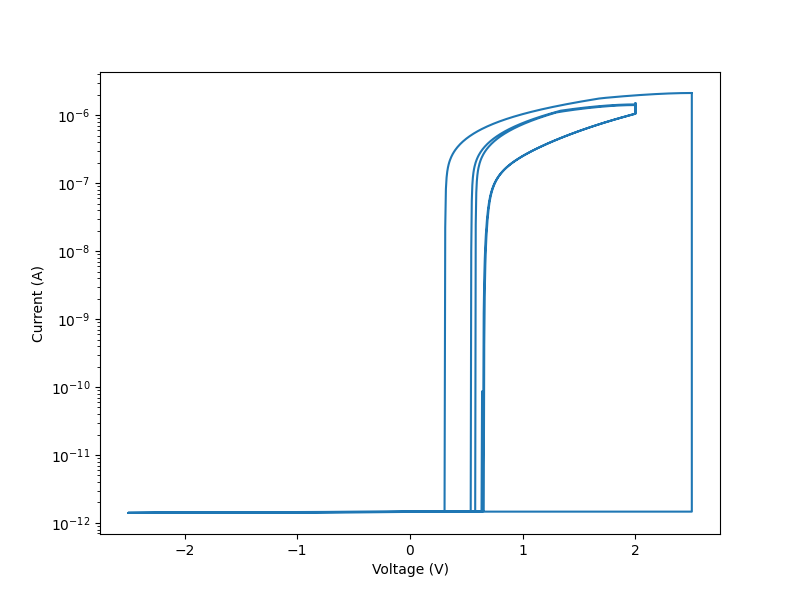
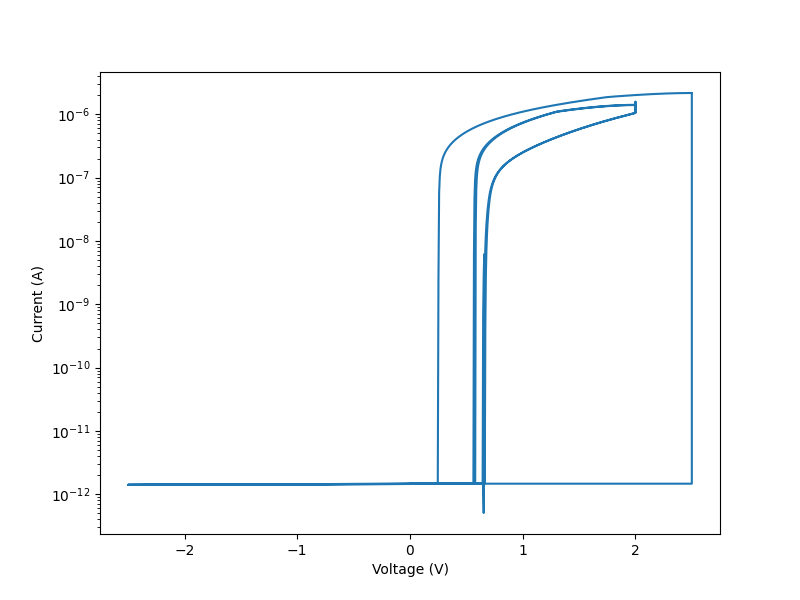
test, added grid to CV plot

diff --git a/Dynamic_Memory_Modeling.py b/Dynamic_Memory_Modeling.py
@@ -6,7 +6,7 @@ import scipy
 import scipy.signal
 from waveforms import waveformGenerator
 
-path = "./plots/threshold_voltage/0.8V/"
+path = "./plots/test/"  
 
 e_charge = scipy.constants.e    #C
 k_B = scipy.constants.k  # J/K
@@ -25,7 +25,7 @@ epsilon_Si = epsilon_0*11.9            # Permittivity of silicon in As/Vm
 
 # MOSFET
 L = 1e-6 # Gate length in m
-W = 1e-6 # Gate width in m
+W = 2e-6 # Gate width in m
 EOT = 1e-9 # Oxide thickness in m
 V_FB = -0.3 # flat band voltage in V
 VDS = 0.05 # drain-source voltage in V
@@ -36,8 +36,7 @@ p_p0 = ( (N_A-N_D)+ np.sqrt((N_A-N_D)**2 + 4*n_i**2) )/2 # Equilibrium hole conc
 n_p0 = n_i**2/p_p0 # Equilibrium electron concentration in m^-3
 L_D = np.sqrt(epsilon_Si/(e_charge * p_p0 * beta_e)) # % Extrinsic Debye-length for holes in m
 C_ox = 3.9*epsilon_0/EOT # Gate oxide capacitance per area in F/m^2
-#V_TH = V_FB + 2*Psi_B + np.sqrt(2*epsilon_Si* e_charge * N_A *2*Psi_B)/(C_ox) # threshold voltage in V
-V_TH = 0.8
+V_TH = V_FB + 2*Psi_B + np.sqrt(2*epsilon_Si* e_charge * N_A *2*Psi_B)/(C_ox) # threshold voltage in V
 
 def F_func(Psi_S, V_ds = VDS):
     return np.sqrt((np.exp(-beta_e *Psi_S)+ beta_e*Psi_S -1) + n_p0/p_p0*np.exp(-beta_e *V_ds) *
@@ -72,13 +71,14 @@ def Drain_current(V_GS_list, V_DS_list):
 
 #Ferroelectric Layer and Grain Parameters
 
-A_FE = (5e-6)*(0.75e-6)    # m^2
+#A_FE = (5e-6)*(0.75e-6)    # m^2
+A_FE = (5e-6) * (1e-6 - 100e-9)
 d_FE = 4.5e-9   # m
 P_r = 2.5 * 1e-2 # remanent polarization C/m^2
 E_c = 0.9 * 1e6 / 1e-2    # coercive field V/m
 
 def FE_leak(V):
-    i_FE0 = 1.8e3 # MFM leakage current density at VF = 0V in A/m2
+    i_FE0 = 1.8e3 # MFM leakage current density at VF = 0V in A/m2\
     V_FE0 = 0.5 # MFM leakage normalization voltage in V
     return i_FE0* np.sign(V) * np.exp(np.abs(V)/ V_FE0 ) 
 
@@ -100,16 +100,16 @@ t_rise = 0.1
 t_write = 1 
 t_delay = 1
 t_read = 3
-V_write = 2
-V_read = 2
+V_write = 1.6
+V_read = 2.4
 V_hold = 0.0
 Waveform_time = 1e-6 * np.cumsum([0, 1, t_rise, t_write, t_rise, t_delay])
 Waveform_voltage = np.array([0, 0, V_write, V_write, V_hold, V_hold])
 dt = max(Waveform_time) / Sim_steps
 # Sim_time = np.linspace(0, max(Waveform_time), Sim_steps)
-print(dt)
+#print(dt)
 # V_input = np.interp(x = Sim_time, xp = Waveform_time, fp= Waveform_voltage)
-V_input, V_DS, t_total = gen.pulses_constantVd(Sim_steps, VDS, 2.5, 1e-6, 2, 3e-6, 2e-6)
+V_input, V_DS, t_total, dT = gen.pulses_constantVd(Sim_steps, VDS, V_write, 1e-6, V_read, 3e-6, 2e-6)
 Sim_time = np.linspace(0, t_total, Sim_steps)
 # dt = t_total / Sim_steps
 # print(dt)
@@ -126,6 +126,10 @@ V_GS = np.zeros(Sim_steps)
 Psi_Si_list = np.linspace(-0.4,1.7,500)
 Q_MOS_list = Func_Q_MOS(Psi_S=Psi_Si_list)
 V_MOS_list = Psi_Si_list + Q_MOS_list/C_ox + V_FB
+Cp = 0e-12                     #Parasitic capacitance in F
+Qp = (Psi_Si_list+Q_MOS_list/C_ox)*Cp                    # Parasitic charge parallel to Gate capacitance in C
+Qps = Qp/A_MOS + Q_MOS_list                    # Sum of parasitic and Gate charge in C
+
 
 I = np.zeros(Sim_steps)
 I_Leak = np.zeros(Sim_steps)
@@ -144,7 +148,7 @@ Q_0 = np.sqrt(-alpha/beta/2) # charge on every domain interface
 P_sign = -1
 Q_FE[0, :] = Q_0 * P_sign
 Q_FE_tot[0] = np.sum(Q_FE[0, :])
-Q_MOS[0] = np.interp(x = 0, xp = V_MOS_list, fp= Q_MOS_list)* A_MOS
+Q_MOS[0] = np.interp(x = 0, xp = V_MOS_list, fp= Qps)* A_MOS
 Q_Leak[0] = Q_MOS[0] - Q_FE_tot[0]
 
 for i in range(1, Sim_steps):
@@ -157,15 +161,18 @@ for i in range(1, Sim_steps):
     Q_Leak[i] = Q_Leak[i-1] + (I_Leak[i-1] - I_Gate_leak[i-1]) *dt
     I[i-1] = np.sum(I_FE[i-1,:]) + I_Leak[i-1]
     Q_MOS[i] = Q_MOS[i-1] + (I[i-1] - I_Gate_leak[i-1])*dt
-    V_GS[i] = np.interp(x = Q_MOS[i]/A_MOS, xp = Q_MOS_list, fp= V_MOS_list)
+    V_GS[i] = np.interp(x = Q_MOS[i]/A_MOS, xp = Qps, fp= V_MOS_list)
     V_FE[i] = V_input[i] - V_GS[i]  
-#MOSFET Drain Current Calculation
+
 # plt.figure()
-# #plt.plot(scipy.signal.stft(I_Leak)[2], color = "red")
-# #plt.plot(scipy.signal.stft(I - I_Gate_leak)[2], color = "blue")
-# plt.plot(scipy.signal.stft(I - I_Leak)[2], color = "green")
+# plt.semilogx(scipy.fft.fft(I_Leak), color = "red", label = "I_FE_Leak")
+# plt.semilogx(scipy.fft.fft(I_Gate_leak), color = "blue", label = "I_Gate_Leak")
+# plt.semilogx(scipy.fft.fft(I - I_Leak), color = "green", label = "I_FE")
+# plt.legend()
 # plt.show()
 # plt.close()
+
+#MOSFET Drain Current Calculation
 I_D = np.array(Drain_current(V_GS,V_DS))
 
 #Plots

diff --git a/waveforms.py b/waveforms.py
@@ -52,7 +52,56 @@ class waveformGenerator():
         tprev, tnext = tnext, tnext + td
         gate[int(tprev//dt): int(tnext//dt)] = np.ones(int(tnext//dt - tprev//dt)) * Vh
 
-        return gate, drain, t_total
+        return gate, drain, t_total, dt
+    
+    def pulses_variableVd(self, steps, Vd, Vw, tw, Vr, tr, td, Vh = 0, t_rise = 100e-9):
+        steps = int(steps)
+        drain = np.ones(steps) * Vd
+        t_total = 10 * t_rise + 6 * td + 2 * tw + 3 * tr
+        gate = np.zeros(steps)
+        dt = t_total / steps
+        tprev, tnext = 0, 0 + td
+        gate[int(tprev//dt): int(tnext//dt)] = np.ones(int(tnext//dt - tprev//dt)) * Vh
+        tprev, tnext = tnext, tnext + t_rise
+        gate[int(tprev//dt): int(tnext//dt)] = np.linspace(Vh, -Vw, int(tnext//dt - tprev//dt))
+        tprev, tnext = tnext, tnext + tw
+        gate[int(tprev//dt): int(tnext//dt)] = np.ones(int(tnext//dt - tprev//dt)) * -Vw
+        tprev, tnext = tnext, tnext + t_rise
+        gate[int(tprev//dt): int(tnext//dt)] = np.linspace(-Vw, Vh, int(tnext//dt - tprev//dt))
+        tprev, tnext = tnext, tnext + td
+        gate[int(tprev//dt): int(tnext//dt)] = np.ones(int(tnext//dt - tprev//dt)) * Vh
+        tprev, tnext = tnext, tnext + t_rise
+        gate[int(tprev//dt): int(tnext//dt)] = np.linspace(Vh, Vr, int(tnext//dt - tprev//dt))
+        tprev, tnext = tnext, tnext + tr
+        gate[int(tprev//dt): int(tnext//dt)] = np.ones(int(tnext//dt - tprev//dt)) * Vr
+        tprev, tnext = tnext, tnext + t_rise
+        gate[int(tprev//dt): int(tnext//dt)] = np.linspace(Vr, Vh, int(tnext//dt - tprev//dt))
+        tprev, tnext = tnext, tnext + td
+        gate[int(tprev//dt): int(tnext//dt)] = np.ones(int(tnext//dt - tprev//dt)) * Vh
+        tprev, tnext = tnext, tnext + t_rise
+        gate[int(tprev//dt): int(tnext//dt)] = np.linspace(Vh, -Vw, int(tnext//dt - tprev//dt))
+        tprev, tnext = tnext, tnext + tr
+        gate[int(tprev//dt): int(tnext//dt)] = np.ones(int(tnext//dt - tprev//dt)) * -Vw
+        tprev, tnext = tnext, tnext + t_rise
+        gate[int(tprev//dt): int(tnext//dt)] = np.linspace(-Vw, Vh, int(tnext//dt - tprev//dt))
+        tprev, tnext = tnext, tnext + td
+        gate[int(tprev//dt): int(tnext//dt)] = np.ones(int(tnext//dt - tprev//dt)) * Vh
+        tprev, tnext = tnext, tnext + tw
+        gate[int(tprev//dt): int(tnext//dt)] = np.ones(int(tnext//dt - tprev//dt)) * Vw
+        tprev, tnext = tnext, tnext + t_rise
+        gate[int(tprev//dt): int(tnext//dt)] = np.linspace(Vw, Vh, int(tnext//dt - tprev//dt))
+        tprev, tnext = tnext, tnext + td
+        gate[int(tprev//dt): int(tnext//dt)] = np.ones(int(tnext//dt - tprev//dt)) * Vh
+        tprev, tnext = tnext, tnext + t_rise
+        gate[int(tprev//dt): int(tnext//dt)] = np.linspace(Vh, Vr, int(tnext//dt - tprev//dt))
+        tprev, tnext = tnext, tnext + tr
+        gate[int(tprev//dt): int(tnext//dt)] = np.ones(int(tnext//dt - tprev//dt)) * Vr
+        tprev, tnext = tnext, tnext + t_rise
+        gate[int(tprev//dt): int(tnext//dt)] = np.linspace(Vr, Vh, int(tnext//dt - tprev//dt))
+        tprev, tnext = tnext, tnext + td
+        gate[int(tprev//dt): int(tnext//dt)] = np.ones(int(tnext//dt - tprev//dt)) * Vh
+
+        return gate, drain, t_total, dt
 
 # gen = waveformGenerator()
 # g, d, t = gen.pulses_constantVd(1e5, 0.05, 2.5, 1e-6, 2, 3e-6, 2e-6)
